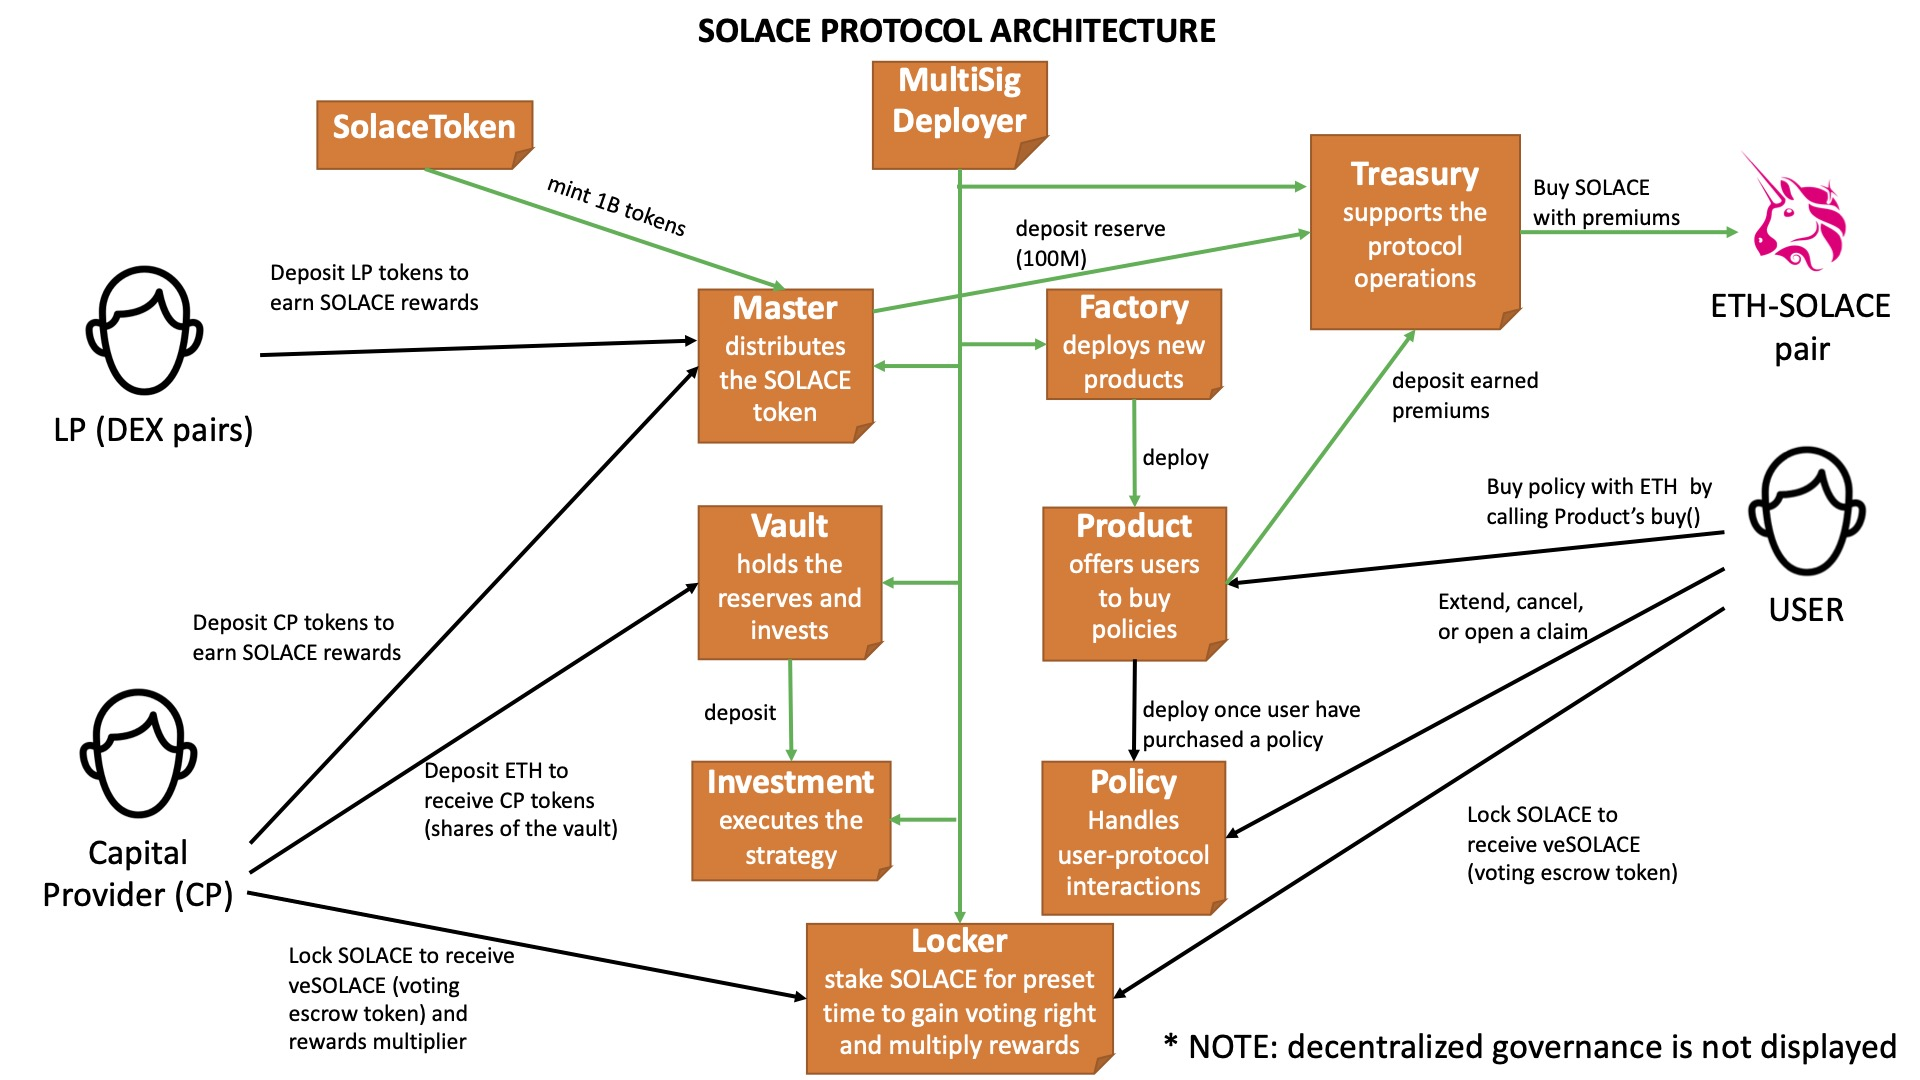
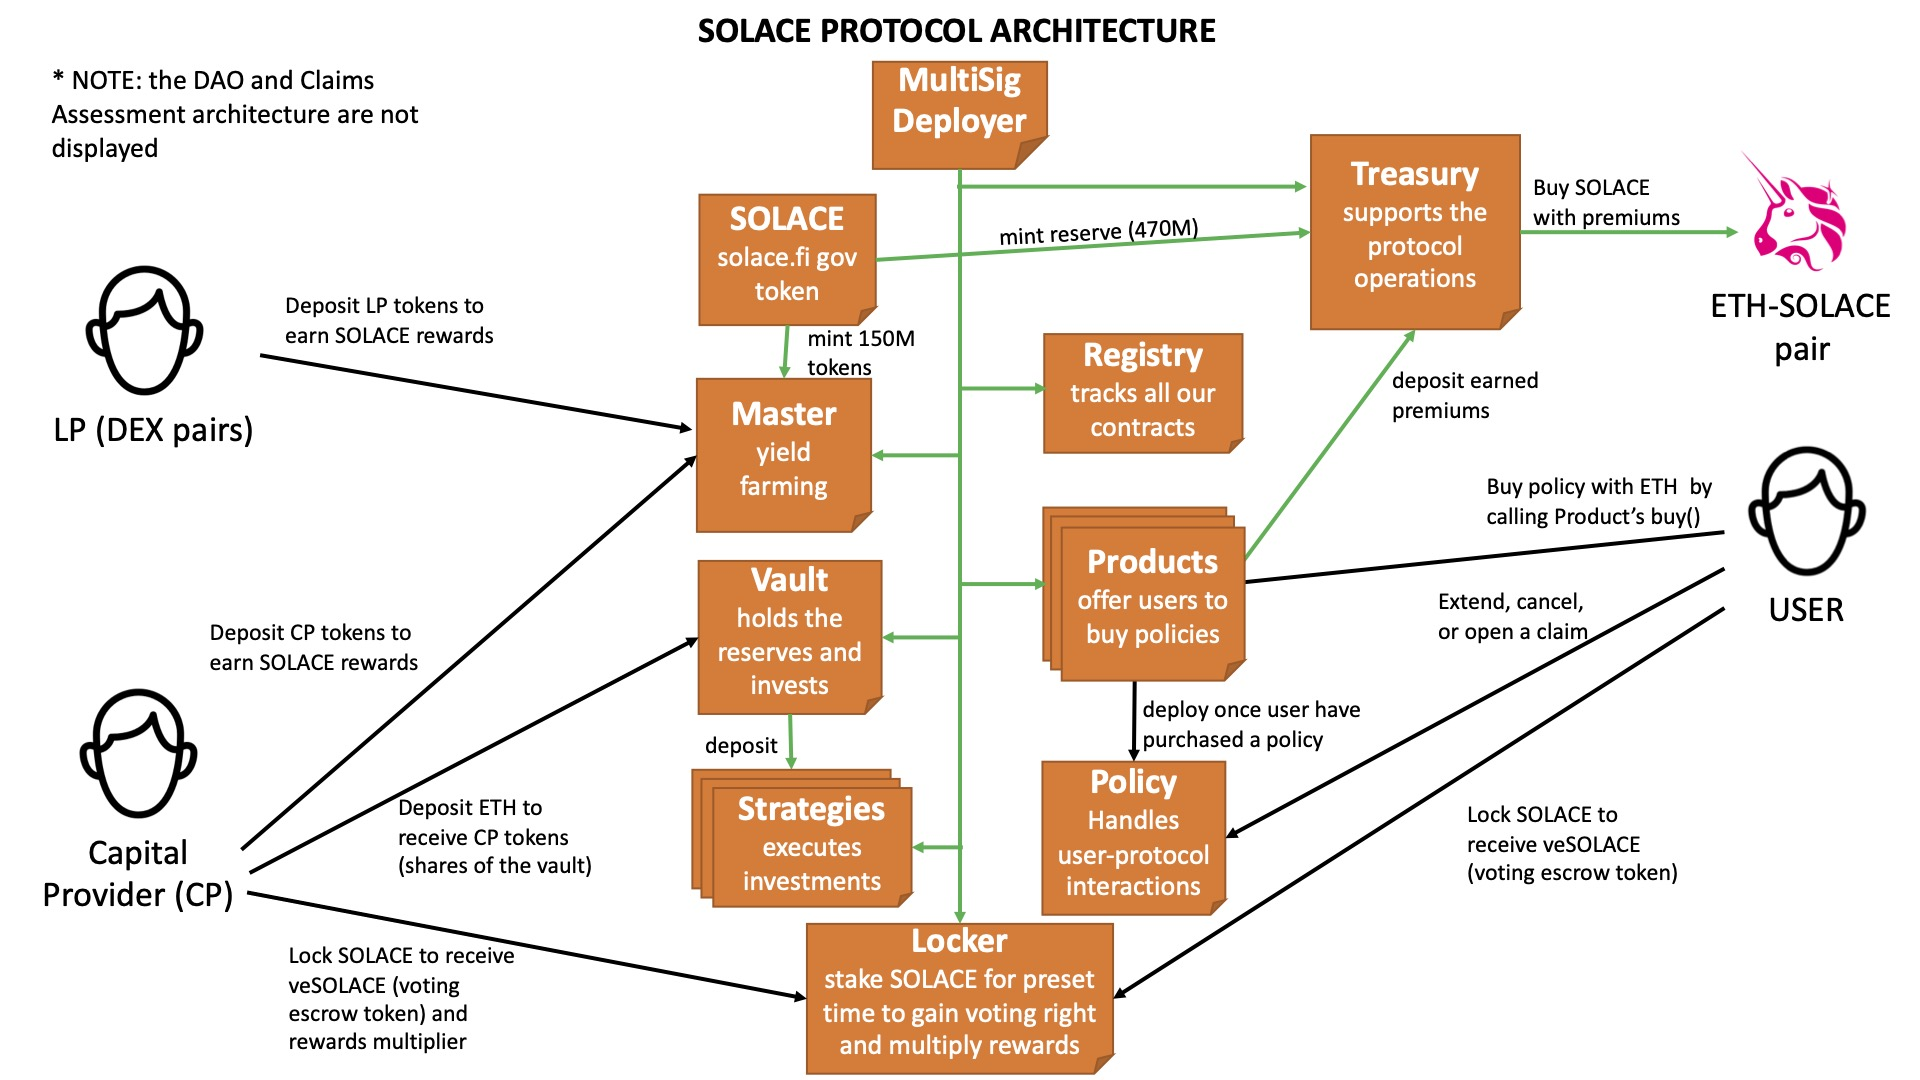
refactor(README): arch updates

Changed region(s): [[0.0312, 0.0611, 0.6875, 0.8556], [0.5938, 0.9472, 1.0, 0.9778], [0.0938, 0.55, 0.25, 0.6722]]

diff --git a/README.md b/README.md
@@ -6,21 +6,15 @@ https://solace.fi
 ## Contracts
 detailed technical documentation is located in docs folder.
 * MultiSig: Solace deployer controlled by the core team (Gnosis Safe + OpenZeppelin Defender)
-* SolaceToken: solace.fi protocol ERC20 token
-* Registry: registry contract keeping track of contract addresses and the products mapping deployed by the MultiSig Deployer
-* Master: owner of solace.fi (ownership will be transferred to decentralized governance in the future) and SOLACE token distributor
-* Vault: contract that holds the reserve and allocates capital to investment (denominated in ETH)
-* Investment: capital pool utilized for investment activity (currently liquid ETH2.0 staking strategy)
+:white_check_mark: SolaceToken: solace.fi protocol ERC20 token
+:white_check_mark: Registry: registry contract keeping track of contract addresses and the products mapping deployed by the MultiSig Deployer
+:white_check_mark: Master: SOLACE token distributor (yield farming staking contract)
+* Vault: contract that holds the reserve and allocates capital to strategies (denominated in ETH)
+:white_check_mark: BaseStrategy: abstract contract that be inherited by strategy contracts executing an investment (will deploy multiple strategies, one at launch will be liquid ETH2.0 staking strategy)
 * Locker: vote lockup contract to boost rewards for capital providers and gain governance rights
 * Treasury: holds and manages the protocol's own capital and buys up SOLACE on the open market (denominated in SOLACE)
-* Factory: deploys new insurance products created by the MultiSig
-* Product: deploys new insurance policies purchased by the buyers
-* Policy: insurance policy implementation
-* Proxy Policy: user front contract storing data and forwarding the calls to the implementation contract
-
-## Operational notes
-* Use OpenZeppelin Defender for smart contract administration
-* Proxy scheme to deploy insurance policies (one implementation per product, one proxy per user)
+* BaseProduct: abstract contract that's inherited by the products, which will deploy new insurance policies purchased by the buyers
+* Policy: an ERC721 contract that stores user-specific policy data, a single touch point between the policy-buyer and the protocol
 
 ## Pragma Version
 * Solidity 0.8.0: https://docs.soliditylang.org/en/v0.8.0/
